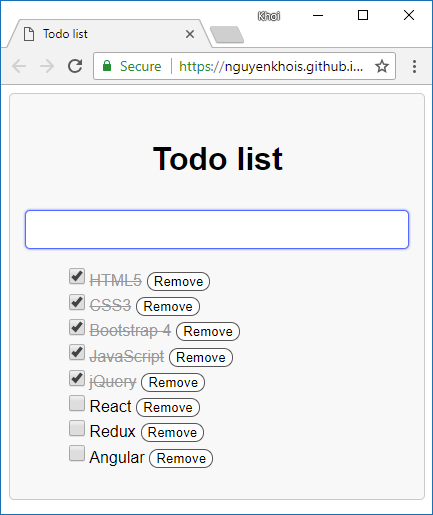
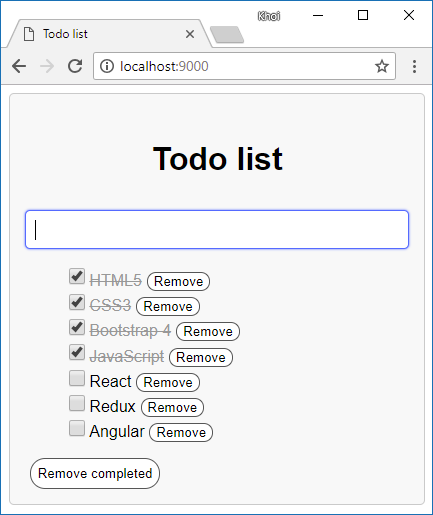
Added new function "Remove completed"

Changed region(s): [[0.03, 0.7146, 0.9908, 0.9942], [0.2102, 0.0932, 0.8406, 0.1553], [0.03, 0.1243, 0.06, 0.1553]]

diff --git a/dist/bundle.js b/dist/bundle.js
@@ -1,2 +1,2 @@
-!function(e){var t={};function n(r){if(t[r])return t[r].exports;var o=t[r]={i:r,l:!1,exports:{}};return e[r].call(o.exports,o,o.exports,n),o.l=!0,o.exports}n.m=e,n.c=t,n.d=function(e,t,r){n.o(e,t)||Object.defineProperty(e,t,{configurable:!1,enumerable:!0,get:r})},n.r=function(e){Object.defineProperty(e,"__esModule",{value:!0})},n.n=function(e){var t=e&&e.__esModule?function(){return e.default}:function(){return e};return n.d(t,"a",t),t},n.o=function(e,t){return Object.prototype.hasOwnProperty.call(e,t)},n.p="",n(n.s=10)}([function(e,t,n){"use strict";(function(e,r){var o,i=n(1);o="undefined"!=typeof self?self:"undefined"!=typeof window?window:void 0!==e?e:r;var a=Object(i.a)(o);t.a=a}).call(this,n(8),n(7)(e))},function(e,t,n){"use strict";function r(e){var t,n=e.Symbol;return"function"==typeof n?n.observable?t=n.observable:(t=n("observable"),n.observable=t):t="@@observable",t}n.d(t,"a",function(){return r})},function(e,t){e.exports=function(e){var t="undefined"!=typeof window&&window.location;if(!t)throw new Error("fixUrls requires window.location");if(!e||"string"!=typeof e)return e;var n=t.protocol+"//"+t.host,r=n+t.pathname.replace(/\/[^\/]*$/,"/");return e.replace(/url\s*\(((?:[^)(]|\((?:[^)(]+|\([^)(]*\))*\))*)\)/gi,function(e,t){var o,i=t.trim().replace(/^"(.*)"$/,function(e,t){return t}).replace(/^'(.*)'$/,function(e,t){return t});return/^(#|data:|http:\/\/|https:\/\/|file:\/\/\/|\s*$)/i.test(i)?e:(o=0===i.indexOf("//")?i:0===i.indexOf("/")?n+i:r+i.replace(/^\.\//,""),"url("+JSON.stringify(o)+")")})}},function(e,t,n){var r,o,i={},a=(r=function(){return window&&document&&document.all&&!window.atob},function(){return void 0===o&&(o=r.apply(this,arguments)),o}),u=function(e){var t={};return function(e){if("function"==typeof e)return e();if(void 0===t[e]){var n=function(e){return document.querySelector(e)}.call(this,e);if(window.HTMLIFrameElement&&n instanceof window.HTMLIFrameElement)try{n=n.contentDocument.head}catch(e){n=null}t[e]=n}return t[e]}}(),s=null,c=0,f=[],d=n(2);function l(e,t){for(var n=0;n<e.length;n++){var r=e[n],o=i[r.id];if(o){o.refs++;for(var a=0;a<o.parts.length;a++)o.parts[a](r.parts[a]);for(;a<r.parts.length;a++)o.parts.push(m(r.parts[a],t))}else{var u=[];for(a=0;a<r.parts.length;a++)u.push(m(r.parts[a],t));i[r.id]={id:r.id,refs:1,parts:u}}}}function p(e,t){for(var n=[],r={},o=0;o<e.length;o++){var i=e[o],a=t.base?i[0]+t.base:i[0],u={css:i[1],media:i[2],sourceMap:i[3]};r[a]?r[a].parts.push(u):n.push(r[a]={id:a,parts:[u]})}return n}function h(e,t){var n=u(e.insertInto);if(!n)throw new Error("Couldn't find a style target. This probably means that the value for the 'insertInto' parameter is invalid.");var r=f[f.length-1];if("top"===e.insertAt)r?r.nextSibling?n.insertBefore(t,r.nextSibling):n.appendChild(t):n.insertBefore(t,n.firstChild),f.push(t);else if("bottom"===e.insertAt)n.appendChild(t);else{if("object"!=typeof e.insertAt||!e.insertAt.before)throw new Error("[Style Loader]\n\n Invalid value for parameter 'insertAt' ('options.insertAt') found.\n Must be 'top', 'bottom', or Object.\n (https://github.com/webpack-contrib/style-loader#insertat)\n");var o=u(e.insertInto+" "+e.insertAt.before);n.insertBefore(t,o)}}function b(e){if(null===e.parentNode)return!1;e.parentNode.removeChild(e);var t=f.indexOf(e);t>=0&&f.splice(t,1)}function v(e){var t=document.createElement("style");return void 0===e.attrs.type&&(e.attrs.type="text/css"),y(t,e.attrs),h(e,t),t}function y(e,t){Object.keys(t).forEach(function(n){e.setAttribute(n,t[n])})}function m(e,t){var n,r,o,i;if(t.transform&&e.css){if(!(i=t.transform(e.css)))return function(){};e.css=i}if(t.singleton){var a=c++;n=s||(s=v(t)),r=x.bind(null,n,a,!1),o=x.bind(null,n,a,!0)}else e.sourceMap&&"function"==typeof URL&&"function"==typeof URL.createObjectURL&&"function"==typeof URL.revokeObjectURL&&"function"==typeof Blob&&"function"==typeof btoa?(n=function(e){var t=document.createElement("link");return void 0===e.attrs.type&&(e.attrs.type="text/css"),e.attrs.rel="stylesheet",y(t,e.attrs),h(e,t),t}(t),r=function(e,t,n){var r=n.css,o=n.sourceMap,i=void 0===t.convertToAbsoluteUrls&&o;(t.convertToAbsoluteUrls||i)&&(r=d(r));o&&(r+="\n/*# sourceMappingURL=data:application/json;base64,"+btoa(unescape(encodeURIComponent(JSON.stringify(o))))+" */");var a=new Blob([r],{type:"text/css"}),u=e.href;e.href=URL.createObjectURL(a),u&&URL.revokeObjectURL(u)}.bind(null,n,t),o=function(){b(n),n.href&&URL.revokeObjectURL(n.href)}):(n=v(t),r=function(e,t){var n=t.css,r=t.media;r&&e.setAttribute("media",r);if(e.styleSheet)e.styleSheet.cssText=n;else{for(;e.firstChild;)e.removeChild(e.firstChild);e.appendChild(document.createTextNode(n))}}.bind(null,n),o=function(){b(n)});return r(e),function(t){if(t){if(t.css===e.css&&t.media===e.media&&t.sourceMap===e.sourceMap)return;r(e=t)}else o()}}e.exports=function(e,t){if("undefined"!=typeof DEBUG&&DEBUG&&"object"!=typeof document)throw new Error("The style-loader cannot be used in a non-browser environment");(t=t||{}).attrs="object"==typeof t.attrs?t.attrs:{},t.singleton||"boolean"==typeof t.singleton||(t.singleton=a()),t.insertInto||(t.insertInto="head"),t.insertAt||(t.insertAt="bottom");var n=p(e,t);return l(n,t),function(e){for(var r=[],o=0;o<n.length;o++){var a=n[o];(u=i[a.id]).refs--,r.push(u)}e&&l(p(e,t),t);for(o=0;o<r.length;o++){var u;if(0===(u=r[o]).refs){for(var s=0;s<u.parts.length;s++)u.parts[s]();delete i[u.id]}}}};var w,g=(w=[],function(e,t){return w[e]=t,w.filter(Boolean).join("\n")});function x(e,t,n,r){var o=n?"":r.css;if(e.styleSheet)e.styleSheet.cssText=g(t,o);else{var i=document.createTextNode(o),a=e.childNodes;a[t]&&e.removeChild(a[t]),a.length?e.insertBefore(i,a[t]):e.appendChild(i)}}},function(e,t){e.exports=function(e){var t=[];return t.toString=function(){return this.map(function(t){var n=function(e,t){var n=e[1]||"",r=e[3];if(!r)return n;if(t&&"function"==typeof btoa){var o=(a=r,"/*# sourceMappingURL=data:application/json;charset=utf-8;base64,"+btoa(unescape(encodeURIComponent(JSON.stringify(a))))+" */"),i=r.sources.map(function(e){return"/*# sourceURL="+r.sourceRoot+e+" */"});return[n].concat(i).concat([o]).join("\n")}var a;return[n].join("\n")}(t,e);return t[2]?"@media "+t[2]+"{"+n+"}":n}).join("")},t.i=function(e,n){"string"==typeof e&&(e=[[null,e,""]]);for(var r={},o=0;o<this.length;o++){var i=this[o][0];"number"==typeof i&&(r[i]=!0)}for(o=0;o<e.length;o++){var a=e[o];"number"==typeof a[0]&&r[a[0]]||(n&&!a[2]?a[2]=n:n&&(a[2]="("+a[2]+") and ("+n+")"),t.push(a))}},t}},function(e,t,n){(e.exports=n(4)(!1)).push([e.i,'body{font-family: Arial, Helvetica, sans-serif;}\r\nul{list-style-type: none;}\r\nbutton{\r\n    margin-left: 5px;\r\n    background-color: white;\r\n    color: black;\r\n    border: 1px solid #555555;\r\n    border-radius: 10px;    \r\n    text-align: center;\r\n    text-decoration: none;\r\n    display: inline-block;    \r\n    -webkit-transition-duration: 0.4s; /* Safari */\r\n    transition-duration: 0.4s;\r\n    cursor: pointer;\r\n}\r\nbutton:hover{background-color: #555555;color: white;}\r\n\r\n#app{width: 26em;}\r\n#app input[type="text"]{\r\n    /* Clear the user\'s operating system\'s theme */\r\n    -webkit-appearance: none;\r\n    -moz-appearance: none;\r\n\r\n    /* Apply own styles */\r\n    transition: all 0.30s ease-in-out;\r\n    -webkit-transition: all 0.30s ease-in-out;\r\n    -moz-transition: all 0.30s ease-in-out;\r\n    -o-transition: all 0.30s ease-in-out;\r\n    outline: none;\r\n    border: 1px solid #ccc;\r\n    border-radius: 5px;\r\n    font-size: 1.1em;\r\n\r\n    width: 95%;\r\n    height: 2em;\r\n}\r\n#app input[type="text"]:focus{border: 1px solid #0094ff;box-shadow: 0 0 5px #0094ff;}\r\n#app input[type="checkbox"]{width: 1.3em;height: 1.3em;position: relative;}\r\n#app > div:first-child{padding: 15px;margin:0;position: relative;user-select: none;-moz-user-select: none;-ms-user-select: none;-webkit-user-select: none;background: #f8f8f8;border: thin solid #cbcbcb;border-radius: 5px;}\r\n#app > div > p:first-child {font-size: 2em;font-weight: bold;text-align: center;}\r\n#app > div > input {padding-left: 0.5em;padding-right: 0.5em;}\r\n\r\n.strike-text{text-decoration: line-through; color: #999999;}',""])},function(e,t,n){var r=n(5);"string"==typeof r&&(r=[[e.i,r,""]]);var o={hmr:!0,transform:void 0,insertInto:void 0};n(3)(r,o);r.locals&&(e.exports=r.locals)},function(e,t){e.exports=function(e){if(!e.webpackPolyfill){var t=Object.create(e);t.children||(t.children=[]),Object.defineProperty(t,"loaded",{enumerable:!0,get:function(){return t.l}}),Object.defineProperty(t,"id",{enumerable:!0,get:function(){return t.i}}),Object.defineProperty(t,"exports",{enumerable:!0}),t.webpackPolyfill=1}return t}},function(e,t){var n;n=function(){return this}();try{n=n||Function("return this")()||(0,eval)("this")}catch(e){"object"==typeof window&&(n=window)}e.exports=n},function(e,t,n){"use strict";n.r(t),n.d(t,"createStore",function(){return s}),n.d(t,"combineReducers",function(){return f}),n.d(t,"bindActionCreators",function(){return l}),n.d(t,"applyMiddleware",function(){return h}),n.d(t,"compose",function(){return p}),n.d(t,"__DO_NOT_USE__ActionTypes",function(){return o});var r=n(0),o={INIT:"@@redux/INIT"+Math.random().toString(36).substring(7).split("").join("."),REPLACE:"@@redux/REPLACE"+Math.random().toString(36).substring(7).split("").join(".")},i="function"==typeof Symbol&&"symbol"==typeof Symbol.iterator?function(e){return typeof e}:function(e){return e&&"function"==typeof Symbol&&e.constructor===Symbol&&e!==Symbol.prototype?"symbol":typeof e},a=Object.assign||function(e){for(var t=1;t<arguments.length;t++){var n=arguments[t];for(var r in n)Object.prototype.hasOwnProperty.call(n,r)&&(e[r]=n[r])}return e};function u(e){if("object"!==(void 0===e?"undefined":i(e))||null===e)return!1;for(var t=e;null!==Object.getPrototypeOf(t);)t=Object.getPrototypeOf(t);return Object.getPrototypeOf(e)===t}function s(e,t,n){var a;if("function"==typeof t&&void 0===n&&(n=t,t=void 0),void 0!==n){if("function"!=typeof n)throw new Error("Expected the enhancer to be a function.");return n(s)(e,t)}if("function"!=typeof e)throw new Error("Expected the reducer to be a function.");var c=e,f=t,d=[],l=d,p=!1;function h(){l===d&&(l=d.slice())}function b(){if(p)throw new Error("You may not call store.getState() while the reducer is executing. The reducer has already received the state as an argument. Pass it down from the top reducer instead of reading it from the store.");return f}function v(e){if("function"!=typeof e)throw new Error("Expected the listener to be a function.");if(p)throw new Error("You may not call store.subscribe() while the reducer is executing. If you would like to be notified after the store has been updated, subscribe from a component and invoke store.getState() in the callback to access the latest state. See https://redux.js.org/api-reference/store#subscribe(listener) for more details.");var t=!0;return h(),l.push(e),function(){if(t){if(p)throw new Error("You may not unsubscribe from a store listener while the reducer is executing. See https://redux.js.org/api-reference/store#subscribe(listener) for more details.");t=!1,h();var n=l.indexOf(e);l.splice(n,1)}}}function y(e){if(!u(e))throw new Error("Actions must be plain objects. Use custom middleware for async actions.");if(void 0===e.type)throw new Error('Actions may not have an undefined "type" property. Have you misspelled a constant?');if(p)throw new Error("Reducers may not dispatch actions.");try{p=!0,f=c(f,e)}finally{p=!1}for(var t=d=l,n=0;n<t.length;n++){(0,t[n])()}return e}return y({type:o.INIT}),(a={dispatch:y,subscribe:v,getState:b,replaceReducer:function(e){if("function"!=typeof e)throw new Error("Expected the nextReducer to be a function.");c=e,y({type:o.REPLACE})}})[r.a]=function(){var e,t=v;return(e={subscribe:function(e){if("object"!==(void 0===e?"undefined":i(e))||null===e)throw new TypeError("Expected the observer to be an object.");function n(){e.next&&e.next(b())}return n(),{unsubscribe:t(n)}}})[r.a]=function(){return this},e},a}function c(e,t){var n=t&&t.type;return"Given "+(n&&'action "'+String(n)+'"'||"an action")+', reducer "'+e+'" returned undefined. To ignore an action, you must explicitly return the previous state. If you want this reducer to hold no value, you can return null instead of undefined.'}function f(e){for(var t=Object.keys(e),n={},r=0;r<t.length;r++){var i=t[r];0,"function"==typeof e[i]&&(n[i]=e[i])}var a=Object.keys(n);var u=void 0;try{!function(e){Object.keys(e).forEach(function(t){var n=e[t];if(void 0===n(void 0,{type:o.INIT}))throw new Error('Reducer "'+t+"\" returned undefined during initialization. If the state passed to the reducer is undefined, you must explicitly return the initial state. The initial state may not be undefined. If you don't want to set a value for this reducer, you can use null instead of undefined.");if(void 0===n(void 0,{type:"@@redux/PROBE_UNKNOWN_ACTION_"+Math.random().toString(36).substring(7).split("").join(".")}))throw new Error('Reducer "'+t+"\" returned undefined when probed with a random type. Don't try to handle "+o.INIT+' or other actions in "redux/*" namespace. They are considered private. Instead, you must return the current state for any unknown actions, unless it is undefined, in which case you must return the initial state, regardless of the action type. The initial state may not be undefined, but can be null.')})}(n)}catch(e){u=e}return function(){var e=arguments.length>0&&void 0!==arguments[0]?arguments[0]:{},t=arguments[1];if(u)throw u;for(var r=!1,o={},i=0;i<a.length;i++){var s=a[i],f=n[s],d=e[s],l=f(d,t);if(void 0===l){var p=c(s,t);throw new Error(p)}o[s]=l,r=r||l!==d}return r?o:e}}function d(e,t){return function(){return t(e.apply(this,arguments))}}function l(e,t){if("function"==typeof e)return d(e,t);if("object"!==(void 0===e?"undefined":i(e))||null===e)throw new Error("bindActionCreators expected an object or a function, instead received "+(null===e?"null":void 0===e?"undefined":i(e))+'. Did you write "import ActionCreators from" instead of "import * as ActionCreators from"?');for(var n=Object.keys(e),r={},o=0;o<n.length;o++){var a=n[o],u=e[a];"function"==typeof u&&(r[a]=d(u,t))}return r}function p(){for(var e=arguments.length,t=Array(e),n=0;n<e;n++)t[n]=arguments[n];return 0===t.length?function(e){return e}:1===t.length?t[0]:t.reduce(function(e,t){return function(){return e(t.apply(void 0,arguments))}})}function h(){for(var e=arguments.length,t=Array(e),n=0;n<e;n++)t[n]=arguments[n];return function(e){return function(){for(var n=arguments.length,r=Array(n),o=0;o<n;o++)r[o]=arguments[o];var i=e.apply(void 0,r),u=function(){throw new Error("Dispatching while constructing your middleware is not allowed. Other middleware would not be applied to this dispatch.")},s={getState:i.getState,dispatch:function(){return u.apply(void 0,arguments)}},c=t.map(function(e){return e(s)});return u=p.apply(void 0,c)(i.dispatch),a({},i,{dispatch:u})}}}},function(e,t,n){"use strict";var r,o=Object.assign||function(e){for(var t=1;t<arguments.length;t++){var n=arguments[t];for(var r in n)Object.prototype.hasOwnProperty.call(n,r)&&(e[r]=n[r])}return e},i=n(9),a=n(6);(r=a)&&r.__esModule;var u=(0,i.createStore)(function(e,t){switch(void 0===e&&(e=[]),t.type){case"ADD_TASK":return e.concat(t.task);case"REMOVE_TASK":return e.filter(function(e){return e.id!==t.task.id});case"CHECKED":var n=e.findIndex(function(e){return e.id===t.task.id});return e.map(function(e,t){return t===n?o({},e,{isDone:!e.isDone}):e});default:return e}}),s=document.getElementById("txtInput"),c=document.getElementById("dspResults");function f(){var e=u.getState(),t=document.createElement("ul");e.map(function(e){var n=document.createElement("li"),r=document.createElement("input");r.setAttribute("type","checkbox"),r.addEventListener("click",function(){return t=e.id,n={type:"CHECKED",task:{id:t}},u.dispatch(n),void f();var t,n});var o=document.createTextNode(e.description),i=document.createElement("button");i.append(document.createTextNode("Remove")),i.addEventListener("click",function(){return t=e.id,n={type:"REMOVE_TASK",task:{id:t}},u.dispatch(n),void f();var t,n}),e.isDone&&(n.classList.add("strike-text"),r.setAttribute("checked","")),n.append(r,o,i),t.appendChild(n)}),c.innerHTML="",c.appendChild(t)}s.focus(),s.addEventListener("keydown",function(e){var t=s.value.trim();if(13===e.keyCode&&t.length>0){var n={type:"ADD_TASK",task:{id:Date.now(),description:t,isDone:!1}};u.dispatch(n),s.value="",s.focus(),f()}})}]);
+!function(e){var t={};function n(r){if(t[r])return t[r].exports;var o=t[r]={i:r,l:!1,exports:{}};return e[r].call(o.exports,o,o.exports,n),o.l=!0,o.exports}n.m=e,n.c=t,n.d=function(e,t,r){n.o(e,t)||Object.defineProperty(e,t,{configurable:!1,enumerable:!0,get:r})},n.r=function(e){Object.defineProperty(e,"__esModule",{value:!0})},n.n=function(e){var t=e&&e.__esModule?function(){return e.default}:function(){return e};return n.d(t,"a",t),t},n.o=function(e,t){return Object.prototype.hasOwnProperty.call(e,t)},n.p="",n(n.s=10)}([function(e,t,n){"use strict";(function(e,r){var o,i=n(1);o="undefined"!=typeof self?self:"undefined"!=typeof window?window:void 0!==e?e:r;var a=Object(i.a)(o);t.a=a}).call(this,n(8),n(7)(e))},function(e,t,n){"use strict";function r(e){var t,n=e.Symbol;return"function"==typeof n?n.observable?t=n.observable:(t=n("observable"),n.observable=t):t="@@observable",t}n.d(t,"a",function(){return r})},function(e,t){e.exports=function(e){var t="undefined"!=typeof window&&window.location;if(!t)throw new Error("fixUrls requires window.location");if(!e||"string"!=typeof e)return e;var n=t.protocol+"//"+t.host,r=n+t.pathname.replace(/\/[^\/]*$/,"/");return e.replace(/url\s*\(((?:[^)(]|\((?:[^)(]+|\([^)(]*\))*\))*)\)/gi,function(e,t){var o,i=t.trim().replace(/^"(.*)"$/,function(e,t){return t}).replace(/^'(.*)'$/,function(e,t){return t});return/^(#|data:|http:\/\/|https:\/\/|file:\/\/\/|\s*$)/i.test(i)?e:(o=0===i.indexOf("//")?i:0===i.indexOf("/")?n+i:r+i.replace(/^\.\//,""),"url("+JSON.stringify(o)+")")})}},function(e,t,n){var r,o,i={},a=(r=function(){return window&&document&&document.all&&!window.atob},function(){return void 0===o&&(o=r.apply(this,arguments)),o}),u=function(e){var t={};return function(e){if("function"==typeof e)return e();if(void 0===t[e]){var n=function(e){return document.querySelector(e)}.call(this,e);if(window.HTMLIFrameElement&&n instanceof window.HTMLIFrameElement)try{n=n.contentDocument.head}catch(e){n=null}t[e]=n}return t[e]}}(),s=null,c=0,f=[],d=n(2);function l(e,t){for(var n=0;n<e.length;n++){var r=e[n],o=i[r.id];if(o){o.refs++;for(var a=0;a<o.parts.length;a++)o.parts[a](r.parts[a]);for(;a<r.parts.length;a++)o.parts.push(m(r.parts[a],t))}else{var u=[];for(a=0;a<r.parts.length;a++)u.push(m(r.parts[a],t));i[r.id]={id:r.id,refs:1,parts:u}}}}function p(e,t){for(var n=[],r={},o=0;o<e.length;o++){var i=e[o],a=t.base?i[0]+t.base:i[0],u={css:i[1],media:i[2],sourceMap:i[3]};r[a]?r[a].parts.push(u):n.push(r[a]={id:a,parts:[u]})}return n}function h(e,t){var n=u(e.insertInto);if(!n)throw new Error("Couldn't find a style target. This probably means that the value for the 'insertInto' parameter is invalid.");var r=f[f.length-1];if("top"===e.insertAt)r?r.nextSibling?n.insertBefore(t,r.nextSibling):n.appendChild(t):n.insertBefore(t,n.firstChild),f.push(t);else if("bottom"===e.insertAt)n.appendChild(t);else{if("object"!=typeof e.insertAt||!e.insertAt.before)throw new Error("[Style Loader]\n\n Invalid value for parameter 'insertAt' ('options.insertAt') found.\n Must be 'top', 'bottom', or Object.\n (https://github.com/webpack-contrib/style-loader#insertat)\n");var o=u(e.insertInto+" "+e.insertAt.before);n.insertBefore(t,o)}}function b(e){if(null===e.parentNode)return!1;e.parentNode.removeChild(e);var t=f.indexOf(e);t>=0&&f.splice(t,1)}function v(e){var t=document.createElement("style");return void 0===e.attrs.type&&(e.attrs.type="text/css"),y(t,e.attrs),h(e,t),t}function y(e,t){Object.keys(t).forEach(function(n){e.setAttribute(n,t[n])})}function m(e,t){var n,r,o,i;if(t.transform&&e.css){if(!(i=t.transform(e.css)))return function(){};e.css=i}if(t.singleton){var a=c++;n=s||(s=v(t)),r=x.bind(null,n,a,!1),o=x.bind(null,n,a,!0)}else e.sourceMap&&"function"==typeof URL&&"function"==typeof URL.createObjectURL&&"function"==typeof URL.revokeObjectURL&&"function"==typeof Blob&&"function"==typeof btoa?(n=function(e){var t=document.createElement("link");return void 0===e.attrs.type&&(e.attrs.type="text/css"),e.attrs.rel="stylesheet",y(t,e.attrs),h(e,t),t}(t),r=function(e,t,n){var r=n.css,o=n.sourceMap,i=void 0===t.convertToAbsoluteUrls&&o;(t.convertToAbsoluteUrls||i)&&(r=d(r));o&&(r+="\n/*# sourceMappingURL=data:application/json;base64,"+btoa(unescape(encodeURIComponent(JSON.stringify(o))))+" */");var a=new Blob([r],{type:"text/css"}),u=e.href;e.href=URL.createObjectURL(a),u&&URL.revokeObjectURL(u)}.bind(null,n,t),o=function(){b(n),n.href&&URL.revokeObjectURL(n.href)}):(n=v(t),r=function(e,t){var n=t.css,r=t.media;r&&e.setAttribute("media",r);if(e.styleSheet)e.styleSheet.cssText=n;else{for(;e.firstChild;)e.removeChild(e.firstChild);e.appendChild(document.createTextNode(n))}}.bind(null,n),o=function(){b(n)});return r(e),function(t){if(t){if(t.css===e.css&&t.media===e.media&&t.sourceMap===e.sourceMap)return;r(e=t)}else o()}}e.exports=function(e,t){if("undefined"!=typeof DEBUG&&DEBUG&&"object"!=typeof document)throw new Error("The style-loader cannot be used in a non-browser environment");(t=t||{}).attrs="object"==typeof t.attrs?t.attrs:{},t.singleton||"boolean"==typeof t.singleton||(t.singleton=a()),t.insertInto||(t.insertInto="head"),t.insertAt||(t.insertAt="bottom");var n=p(e,t);return l(n,t),function(e){for(var r=[],o=0;o<n.length;o++){var a=n[o];(u=i[a.id]).refs--,r.push(u)}e&&l(p(e,t),t);for(o=0;o<r.length;o++){var u;if(0===(u=r[o]).refs){for(var s=0;s<u.parts.length;s++)u.parts[s]();delete i[u.id]}}}};var w,g=(w=[],function(e,t){return w[e]=t,w.filter(Boolean).join("\n")});function x(e,t,n,r){var o=n?"":r.css;if(e.styleSheet)e.styleSheet.cssText=g(t,o);else{var i=document.createTextNode(o),a=e.childNodes;a[t]&&e.removeChild(a[t]),a.length?e.insertBefore(i,a[t]):e.appendChild(i)}}},function(e,t){e.exports=function(e){var t=[];return t.toString=function(){return this.map(function(t){var n=function(e,t){var n=e[1]||"",r=e[3];if(!r)return n;if(t&&"function"==typeof btoa){var o=(a=r,"/*# sourceMappingURL=data:application/json;charset=utf-8;base64,"+btoa(unescape(encodeURIComponent(JSON.stringify(a))))+" */"),i=r.sources.map(function(e){return"/*# sourceURL="+r.sourceRoot+e+" */"});return[n].concat(i).concat([o]).join("\n")}var a;return[n].join("\n")}(t,e);return t[2]?"@media "+t[2]+"{"+n+"}":n}).join("")},t.i=function(e,n){"string"==typeof e&&(e=[[null,e,""]]);for(var r={},o=0;o<this.length;o++){var i=this[o][0];"number"==typeof i&&(r[i]=!0)}for(o=0;o<e.length;o++){var a=e[o];"number"==typeof a[0]&&r[a[0]]||(n&&!a[2]?a[2]=n:n&&(a[2]="("+a[2]+") and ("+n+")"),t.push(a))}},t}},function(e,t,n){(e.exports=n(4)(!1)).push([e.i,'body{font-family: Arial, Helvetica, sans-serif;}\r\nul{list-style-type: none;}\r\nbutton{\r\n    margin-left: 5px;\r\n    background-color: white;\r\n    color: black;\r\n    border: 1px solid #555555;\r\n    border-radius: 10px;    \r\n    text-align: center;\r\n    text-decoration: none;\r\n    display: inline-block;    \r\n    -webkit-transition-duration: 0.4s; /* Safari */\r\n    transition-duration: 0.4s;\r\n    cursor: pointer;\r\n}\r\nbutton:hover{background-color: #555555;color: white;}\r\n\r\n#app{width: 26em;}\r\n#app input[type="text"]{\r\n    /* Clear the user\'s operating system\'s theme */\r\n    -webkit-appearance: none;\r\n    -moz-appearance: none;\r\n\r\n    /* Apply own styles */\r\n    transition: all 0.30s ease-in-out;\r\n    -webkit-transition: all 0.30s ease-in-out;\r\n    -moz-transition: all 0.30s ease-in-out;\r\n    -o-transition: all 0.30s ease-in-out;\r\n    outline: none;\r\n    border: 1px solid #ccc;\r\n    border-radius: 5px;\r\n    font-size: 1.1em;\r\n\r\n    width: 95%;\r\n    height: 2em;\r\n}\r\n#app input[type="text"]:focus{border: 1px solid #0094ff;box-shadow: 0 0 5px #0094ff;}\r\n#app input[type="checkbox"]{width: 1.3em;height: 1.3em;position: relative;}\r\n#app > div:first-child{padding: 15px;margin:0;position: relative;user-select: none;-moz-user-select: none;-ms-user-select: none;-webkit-user-select: none;background: #f8f8f8;border: thin solid #cbcbcb;border-radius: 5px;}\r\n#app > div > p:first-child {font-size: 2em;font-weight: bold;text-align: center;}\r\n#app > div > input {padding-left: 0.5em;padding-right: 0.5em;}\r\n#app > div > div > button {padding: 0.5em; border-radius: 20px;}\r\n\r\n.strike-text{text-decoration: line-through; color: #999999;}',""])},function(e,t,n){var r=n(5);"string"==typeof r&&(r=[[e.i,r,""]]);var o={hmr:!0,transform:void 0,insertInto:void 0};n(3)(r,o);r.locals&&(e.exports=r.locals)},function(e,t){e.exports=function(e){if(!e.webpackPolyfill){var t=Object.create(e);t.children||(t.children=[]),Object.defineProperty(t,"loaded",{enumerable:!0,get:function(){return t.l}}),Object.defineProperty(t,"id",{enumerable:!0,get:function(){return t.i}}),Object.defineProperty(t,"exports",{enumerable:!0}),t.webpackPolyfill=1}return t}},function(e,t){var n;n=function(){return this}();try{n=n||Function("return this")()||(0,eval)("this")}catch(e){"object"==typeof window&&(n=window)}e.exports=n},function(e,t,n){"use strict";n.r(t),n.d(t,"createStore",function(){return s}),n.d(t,"combineReducers",function(){return f}),n.d(t,"bindActionCreators",function(){return l}),n.d(t,"applyMiddleware",function(){return h}),n.d(t,"compose",function(){return p}),n.d(t,"__DO_NOT_USE__ActionTypes",function(){return o});var r=n(0),o={INIT:"@@redux/INIT"+Math.random().toString(36).substring(7).split("").join("."),REPLACE:"@@redux/REPLACE"+Math.random().toString(36).substring(7).split("").join(".")},i="function"==typeof Symbol&&"symbol"==typeof Symbol.iterator?function(e){return typeof e}:function(e){return e&&"function"==typeof Symbol&&e.constructor===Symbol&&e!==Symbol.prototype?"symbol":typeof e},a=Object.assign||function(e){for(var t=1;t<arguments.length;t++){var n=arguments[t];for(var r in n)Object.prototype.hasOwnProperty.call(n,r)&&(e[r]=n[r])}return e};function u(e){if("object"!==(void 0===e?"undefined":i(e))||null===e)return!1;for(var t=e;null!==Object.getPrototypeOf(t);)t=Object.getPrototypeOf(t);return Object.getPrototypeOf(e)===t}function s(e,t,n){var a;if("function"==typeof t&&void 0===n&&(n=t,t=void 0),void 0!==n){if("function"!=typeof n)throw new Error("Expected the enhancer to be a function.");return n(s)(e,t)}if("function"!=typeof e)throw new Error("Expected the reducer to be a function.");var c=e,f=t,d=[],l=d,p=!1;function h(){l===d&&(l=d.slice())}function b(){if(p)throw new Error("You may not call store.getState() while the reducer is executing. The reducer has already received the state as an argument. Pass it down from the top reducer instead of reading it from the store.");return f}function v(e){if("function"!=typeof e)throw new Error("Expected the listener to be a function.");if(p)throw new Error("You may not call store.subscribe() while the reducer is executing. If you would like to be notified after the store has been updated, subscribe from a component and invoke store.getState() in the callback to access the latest state. See https://redux.js.org/api-reference/store#subscribe(listener) for more details.");var t=!0;return h(),l.push(e),function(){if(t){if(p)throw new Error("You may not unsubscribe from a store listener while the reducer is executing. See https://redux.js.org/api-reference/store#subscribe(listener) for more details.");t=!1,h();var n=l.indexOf(e);l.splice(n,1)}}}function y(e){if(!u(e))throw new Error("Actions must be plain objects. Use custom middleware for async actions.");if(void 0===e.type)throw new Error('Actions may not have an undefined "type" property. Have you misspelled a constant?');if(p)throw new Error("Reducers may not dispatch actions.");try{p=!0,f=c(f,e)}finally{p=!1}for(var t=d=l,n=0;n<t.length;n++){(0,t[n])()}return e}return y({type:o.INIT}),(a={dispatch:y,subscribe:v,getState:b,replaceReducer:function(e){if("function"!=typeof e)throw new Error("Expected the nextReducer to be a function.");c=e,y({type:o.REPLACE})}})[r.a]=function(){var e,t=v;return(e={subscribe:function(e){if("object"!==(void 0===e?"undefined":i(e))||null===e)throw new TypeError("Expected the observer to be an object.");function n(){e.next&&e.next(b())}return n(),{unsubscribe:t(n)}}})[r.a]=function(){return this},e},a}function c(e,t){var n=t&&t.type;return"Given "+(n&&'action "'+String(n)+'"'||"an action")+', reducer "'+e+'" returned undefined. To ignore an action, you must explicitly return the previous state. If you want this reducer to hold no value, you can return null instead of undefined.'}function f(e){for(var t=Object.keys(e),n={},r=0;r<t.length;r++){var i=t[r];0,"function"==typeof e[i]&&(n[i]=e[i])}var a=Object.keys(n);var u=void 0;try{!function(e){Object.keys(e).forEach(function(t){var n=e[t];if(void 0===n(void 0,{type:o.INIT}))throw new Error('Reducer "'+t+"\" returned undefined during initialization. If the state passed to the reducer is undefined, you must explicitly return the initial state. The initial state may not be undefined. If you don't want to set a value for this reducer, you can use null instead of undefined.");if(void 0===n(void 0,{type:"@@redux/PROBE_UNKNOWN_ACTION_"+Math.random().toString(36).substring(7).split("").join(".")}))throw new Error('Reducer "'+t+"\" returned undefined when probed with a random type. Don't try to handle "+o.INIT+' or other actions in "redux/*" namespace. They are considered private. Instead, you must return the current state for any unknown actions, unless it is undefined, in which case you must return the initial state, regardless of the action type. The initial state may not be undefined, but can be null.')})}(n)}catch(e){u=e}return function(){var e=arguments.length>0&&void 0!==arguments[0]?arguments[0]:{},t=arguments[1];if(u)throw u;for(var r=!1,o={},i=0;i<a.length;i++){var s=a[i],f=n[s],d=e[s],l=f(d,t);if(void 0===l){var p=c(s,t);throw new Error(p)}o[s]=l,r=r||l!==d}return r?o:e}}function d(e,t){return function(){return t(e.apply(this,arguments))}}function l(e,t){if("function"==typeof e)return d(e,t);if("object"!==(void 0===e?"undefined":i(e))||null===e)throw new Error("bindActionCreators expected an object or a function, instead received "+(null===e?"null":void 0===e?"undefined":i(e))+'. Did you write "import ActionCreators from" instead of "import * as ActionCreators from"?');for(var n=Object.keys(e),r={},o=0;o<n.length;o++){var a=n[o],u=e[a];"function"==typeof u&&(r[a]=d(u,t))}return r}function p(){for(var e=arguments.length,t=Array(e),n=0;n<e;n++)t[n]=arguments[n];return 0===t.length?function(e){return e}:1===t.length?t[0]:t.reduce(function(e,t){return function(){return e(t.apply(void 0,arguments))}})}function h(){for(var e=arguments.length,t=Array(e),n=0;n<e;n++)t[n]=arguments[n];return function(e){return function(){for(var n=arguments.length,r=Array(n),o=0;o<n;o++)r[o]=arguments[o];var i=e.apply(void 0,r),u=function(){throw new Error("Dispatching while constructing your middleware is not allowed. Other middleware would not be applied to this dispatch.")},s={getState:i.getState,dispatch:function(){return u.apply(void 0,arguments)}},c=t.map(function(e){return e(s)});return u=p.apply(void 0,c)(i.dispatch),a({},i,{dispatch:u})}}}},function(e,t,n){"use strict";var r,o=Object.assign||function(e){for(var t=1;t<arguments.length;t++){var n=arguments[t];for(var r in n)Object.prototype.hasOwnProperty.call(n,r)&&(e[r]=n[r])}return e},i=n(9),a=n(6);(r=a)&&r.__esModule;function u(){var e=c.getState(),t=document.createElement("ul");if(e.map(function(e){var n=document.createElement("li"),r=document.createElement("input");r.setAttribute("type","checkbox"),r.addEventListener("click",function(){return t=e.id,n={type:"CHECKED",task:{id:t}},c.dispatch(n),void u();var t,n});var o=document.createTextNode(e.description),i=document.createElement("button");i.append(document.createTextNode("Remove")),i.addEventListener("click",function(){return t=e.id,n={type:"REMOVE_TASK",task:{id:t}},c.dispatch(n),void u();var t,n}),e.isDone&&(n.classList.add("strike-text"),r.setAttribute("checked","")),n.append(r,o,i),t.appendChild(n)}),d.innerHTML="",e.filter(function(e){return e.isDone}).length>0){var n=document.createElement("button");n.append(document.createTextNode("Remove completed")),n.setAttribute("type","button"),n.addEventListener("click",s),d.append(t,n)}else d.appendChild(t)}function s(){c.dispatch({type:"REMOVE_COMPLETED"}),u()}var c=(0,i.createStore)(function(e,t){switch(void 0===e&&(e=[]),t.type){case"ADD_TASK":return e.concat(t.task);case"REMOVE_TASK":return e.filter(function(e){return e.id!==t.task.id});case"CHECKED":var n=e.findIndex(function(e){return e.id===t.task.id});return e.map(function(e,t){return t===n?o({},e,{isDone:!e.isDone}):e});case"REMOVE_COMPLETED":return e.filter(function(e){return!e.isDone});default:return e}}),f=document.getElementById("txtInput"),d=document.getElementById("dspResults");f.focus(),f.addEventListener("keydown",function(e){var t=f.value.trim();if(13===e.keyCode&&t.length>0){var n={type:"ADD_TASK",task:{id:Date.now(),description:t,isDone:!1}};c.dispatch(n),f.value="",f.focus(),u()}})}]);
 //# sourceMappingURL=bundle.js.map

diff --git a/src/index.js b/src/index.js
@@ -37,18 +37,32 @@ function renderContent(){
             taskCheckBox.setAttribute('checked','');
         }  else null;
 
-        //Render
+        //Render Todo list
         task.append(taskCheckBox, taskText, taskButton); //Render whole a task
         todoList.appendChild(task); //Append a task to the Todo list
     });
 
+    //Render whole the app with button "Remove completed"
     dspResults.innerHTML = '';
-    dspResults.appendChild(todoList);
+    if (allTasks.filter(item=>item.isDone).length > 0){
+        let btnRemoveCompleted = document.createElement('button')
+        btnRemoveCompleted.append(document.createTextNode('Remove completed'));
+        btnRemoveCompleted.setAttribute('type','button');
+        btnRemoveCompleted.addEventListener('click',handleRemoveCompleted);
+
+        dspResults.append(todoList, btnRemoveCompleted);
+    } else dspResults.appendChild(todoList);   
 }
 
 function handleRemove(itemId){
     let action = {type:'REMOVE_TASK', task: {id: itemId}};
     store.dispatch(action); //Redux method
+    renderContent();
+}
+
+function handleRemoveCompleted(){
+    let action = {type: 'REMOVE_COMPLETED'};
+    store.dispatch(action);
     renderContent();
 }
 
@@ -75,6 +89,9 @@ let userReducer = (state, action) => {
             const itemIndex = state.findIndex(item=>item.id === action.task.id);
             const newState = state.map((item, index)=> index === itemIndex ? {...item, isDone: !item.isDone} : item);
             return newState;
+            break;
+        case 'REMOVE_COMPLETED':
+            return state.filter(item=>!item.isDone);
             break;
         default:
             return state;

diff --git a/dist/styles.css b/dist/styles.css
@@ -39,5 +39,6 @@ button:hover{background-color: #555555;color: white;}
 #app > div:first-child{padding: 15px;margin:0;position: relative;user-select: none;-moz-user-select: none;-ms-user-select: none;-webkit-user-select: none;background: #f8f8f8;border: thin solid #cbcbcb;border-radius: 5px;}
 #app > div > p:first-child {font-size: 2em;font-weight: bold;text-align: center;}
 #app > div > input {padding-left: 0.5em;padding-right: 0.5em;}
+#app > div > div > button {padding: 0.5em; border-radius: 20px;}
 
 .strike-text{text-decoration: line-through; color: #999999;}

diff --git a/src/styles.css b/src/styles.css
@@ -39,5 +39,6 @@ button:hover{background-color: #555555;color: white;}
 #app > div:first-child{padding: 15px;margin:0;position: relative;user-select: none;-moz-user-select: none;-ms-user-select: none;-webkit-user-select: none;background: #f8f8f8;border: thin solid #cbcbcb;border-radius: 5px;}
 #app > div > p:first-child {font-size: 2em;font-weight: bold;text-align: center;}
 #app > div > input {padding-left: 0.5em;padding-right: 0.5em;}
+#app > div > div > button {padding: 0.5em; border-radius: 20px;}
 
 .strike-text{text-decoration: line-through; color: #999999;}
